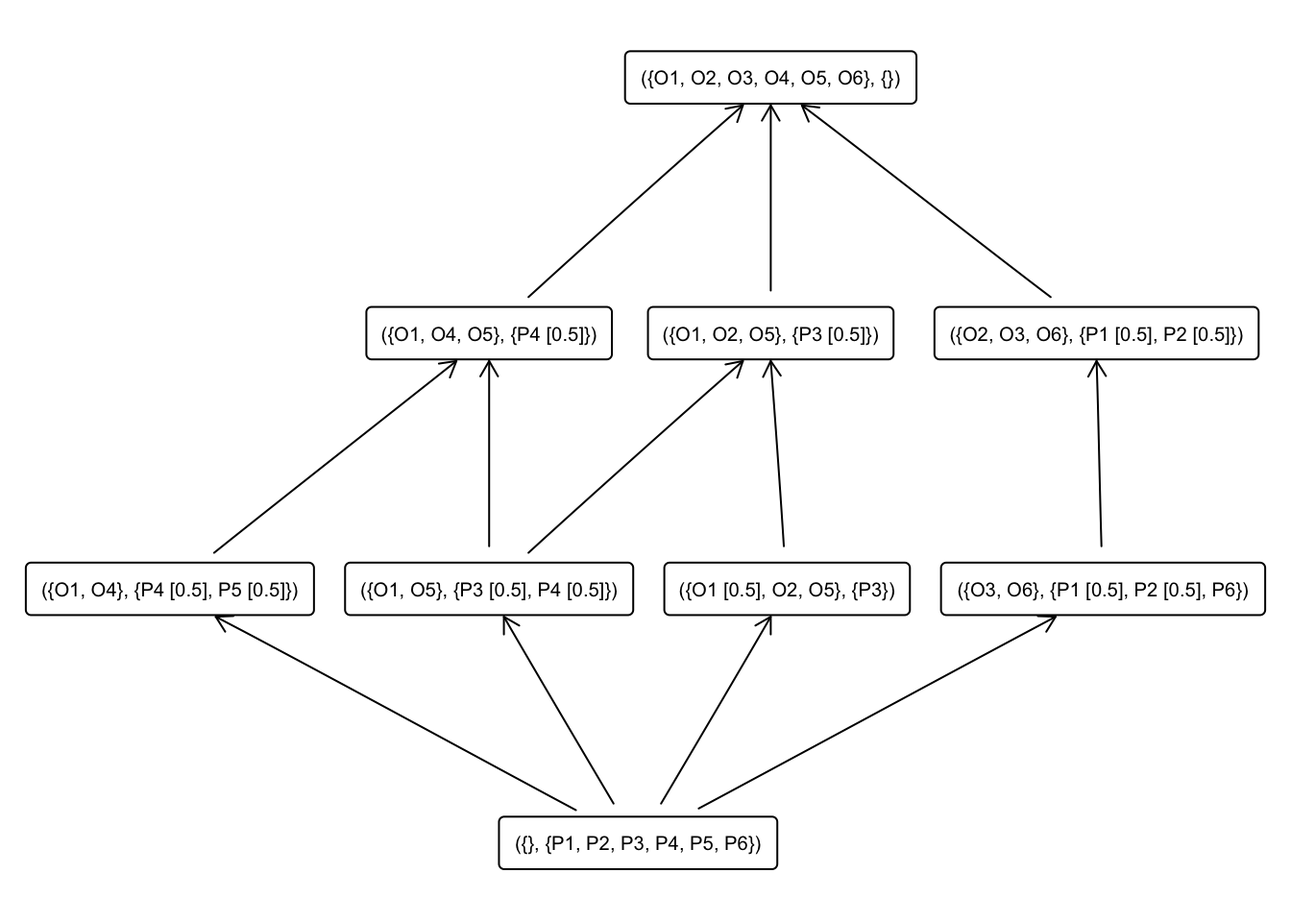
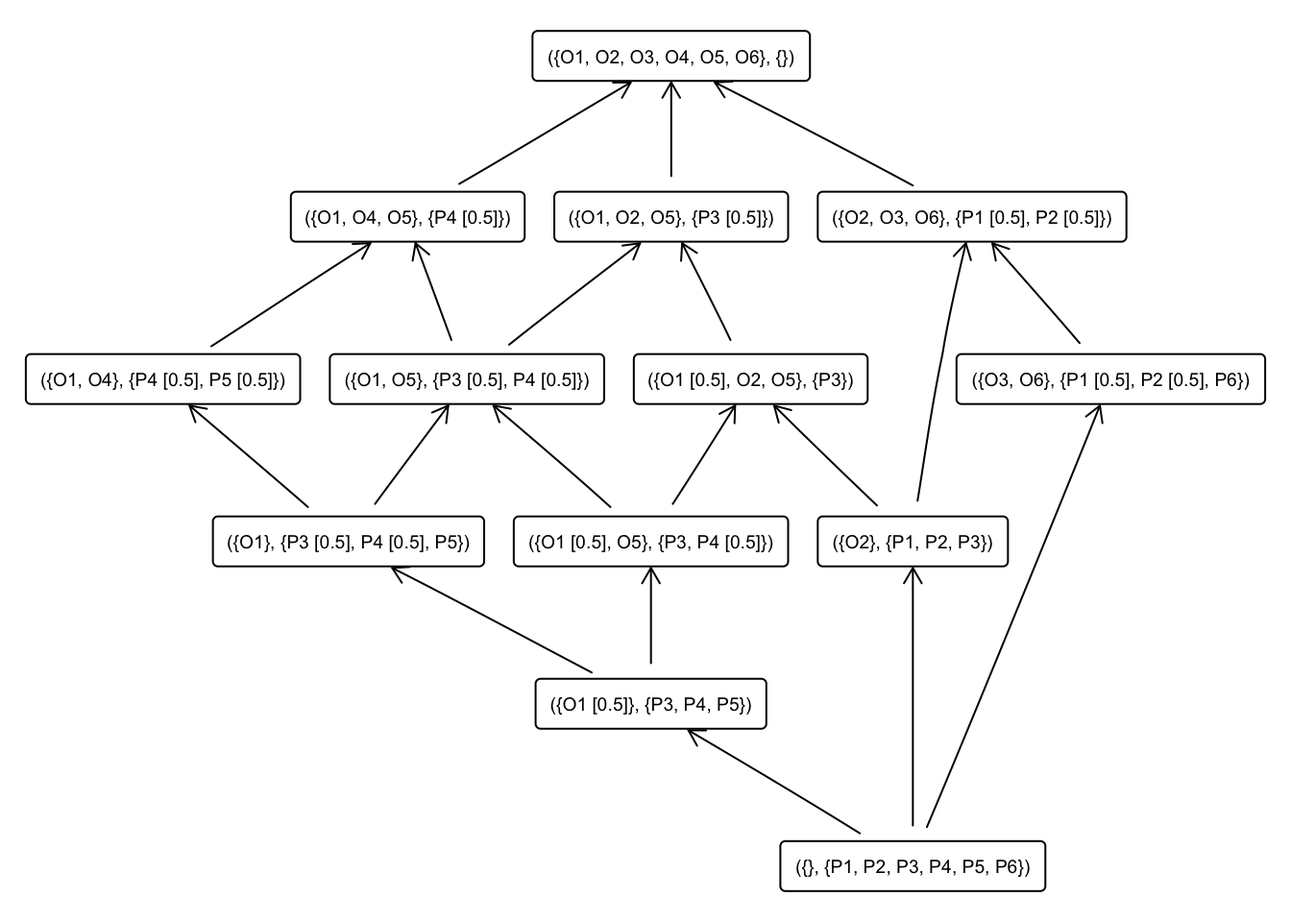
Updated pkgdown site

diff --git a/docs/articles/concept_lattice.html b/docs/articles/concept_lattice.html
@@ -582,7 +582,7 @@ O6
 <p><img src="concept_lattice_files/figure-html/unnamed-chunk-8-2.png" width="384"></p>
 <p>Also, we can export the formal context as a LaTeX table:</p>
 <div class="sourceCode" id="cb8"><pre class="sourceCode r"><code class="sourceCode r"><a class="sourceLine" id="cb8-1" data-line-number="1">fc_planets<span class="op">$</span><span class="kw">to_latex</span>()</a>
-<a class="sourceLine" id="cb8-2" data-line-number="2"><span class="co">#&gt; </span></a>
+<a class="sourceLine" id="cb8-2" data-line-number="2"><span class="co">#&gt; \begin{table} \centering </span></a>
 <a class="sourceLine" id="cb8-3" data-line-number="3"><span class="co">#&gt; \begin{tabular}{lrrrrrrr}</span></a>
 <a class="sourceLine" id="cb8-4" data-line-number="4"><span class="co">#&gt; \toprule</span></a>
 <a class="sourceLine" id="cb8-5" data-line-number="5"><span class="co">#&gt;   &amp; small &amp; medium &amp; large &amp; near &amp; far &amp; moon &amp; no\_moon\\</span></a>
@@ -597,7 +597,7 @@ O6
 <a class="sourceLine" id="cb8-14" data-line-number="14"><span class="co">#&gt; Neptune &amp; 0 &amp; 1 &amp; 0 &amp; 0 &amp; 1 &amp; 1 &amp; 0\\</span></a>
 <a class="sourceLine" id="cb8-15" data-line-number="15"><span class="co">#&gt; Pluto &amp; 1 &amp; 0 &amp; 0 &amp; 0 &amp; 1 &amp; 1 &amp; 0\\</span></a>
 <a class="sourceLine" id="cb8-16" data-line-number="16"><span class="co">#&gt; \bottomrule</span></a>
-<a class="sourceLine" id="cb8-17" data-line-number="17"><span class="co">#&gt; \end{tabular}</span></a></code></pre></div>
+<a class="sourceLine" id="cb8-17" data-line-number="17"><span class="co">#&gt; \end{tabular} \caption{\label{}} \end{table}</span></a></code></pre></div>
 </div>
 <div id="closures" class="section level2">
 <h2 class="hasAnchor">
@@ -606,7 +606,7 @@ O6
 <p>The intent of a (probably fuzzy) set of objects is the set of their common attributes:</p>
 <div class="sourceCode" id="cb9"><pre class="sourceCode r"><code class="sourceCode r"><a class="sourceLine" id="cb9-1" data-line-number="1"><span class="co"># Define a set of objects</span></a>
 <a class="sourceLine" id="cb9-2" data-line-number="2">S &lt;-<span class="st"> </span>SparseSet<span class="op">$</span><span class="kw">new</span>(<span class="dt">attributes =</span> fc_planets<span class="op">$</span>objects)</a>
-<a class="sourceLine" id="cb9-3" data-line-number="3">S<span class="op">$</span><span class="kw"><a href="https://rdrr.io/r/base/assign.html">assign</a></span>(<span class="dt">attributes =</span> <span class="kw"><a href="https://rdrr.io/r/base/c.html">c</a></span>(<span class="st">"Earth"</span>, <span class="st">"Mars"</span>), <span class="dt">values =</span> <span class="kw"><a href="https://rdrr.io/r/base/c.html">c</a></span>(<span class="dv">1</span>, <span class="dv">1</span>))</a>
+<a class="sourceLine" id="cb9-3" data-line-number="3">S<span class="op">$</span><span class="kw"><a href="https://rdrr.io/r/base/assign.html">assign</a></span>(<span class="dt">Earth =</span> <span class="dv">1</span>, <span class="dt">Mars =</span> <span class="dv">1</span>)</a>
 <a class="sourceLine" id="cb9-4" data-line-number="4">S</a>
 <a class="sourceLine" id="cb9-5" data-line-number="5"><span class="co">#&gt; {Earth, Mars}</span></a>
 <a class="sourceLine" id="cb9-6" data-line-number="6"></a>
@@ -616,7 +616,7 @@ O6
 <p>Analogously, the extent of a set of attributes is the set of objects which possess all the attributes in the given set:</p>
 <div class="sourceCode" id="cb10"><pre class="sourceCode r"><code class="sourceCode r"><a class="sourceLine" id="cb10-1" data-line-number="1"><span class="co"># Define a set of objects</span></a>
 <a class="sourceLine" id="cb10-2" data-line-number="2">S &lt;-<span class="st"> </span>SparseSet<span class="op">$</span><span class="kw">new</span>(<span class="dt">attributes =</span> fc_planets<span class="op">$</span>attributes)</a>
-<a class="sourceLine" id="cb10-3" data-line-number="3">S<span class="op">$</span><span class="kw"><a href="https://rdrr.io/r/base/assign.html">assign</a></span>(<span class="dt">attributes =</span> <span class="kw"><a href="https://rdrr.io/r/base/c.html">c</a></span>(<span class="st">"moon"</span>, <span class="st">"large"</span>), <span class="dt">values =</span> <span class="kw"><a href="https://rdrr.io/r/base/c.html">c</a></span>(<span class="dv">1</span>, <span class="dv">1</span>))</a>
+<a class="sourceLine" id="cb10-3" data-line-number="3">S<span class="op">$</span><span class="kw"><a href="https://rdrr.io/r/base/assign.html">assign</a></span>(<span class="dt">moon =</span> <span class="dv">1</span>, <span class="dt">large =</span> <span class="dv">1</span>)</a>
 <a class="sourceLine" id="cb10-4" data-line-number="4">S</a>
 <a class="sourceLine" id="cb10-5" data-line-number="5"><span class="co">#&gt; {large, moon}</span></a>
 <a class="sourceLine" id="cb10-6" data-line-number="6"></a>
@@ -775,7 +775,7 @@ O6
 <a class="sourceLine" id="cb20-16" data-line-number="16"></a>
 <a class="sourceLine" id="cb20-17" data-line-number="17"><span class="co"># LaTeX</span></a>
 <a class="sourceLine" id="cb20-18" data-line-number="18">fc_planets<span class="op">$</span>concepts<span class="op">$</span><span class="kw">to_latex</span>()</a>
-<a class="sourceLine" id="cb20-19" data-line-number="19"><span class="co">#&gt; $$</span></a>
+<a class="sourceLine" id="cb20-19" data-line-number="19"><span class="co">#&gt; \ensuremath{\{Mercury,\, Venus,\, Earth,\, Mars,\, Jupiter,\, Saturn,\, Uranus,\, Neptune,\, Pluto\}}\ensuremath{\varnothing}\ensuremath{\{Earth,\, Mars,\, Jupiter,\, Saturn,\, Uranus,\, Neptune,\, Pluto\}}\ensuremath{\{moon\}}\ensuremath{\{Jupiter,\, Saturn,\, Uranus,\, Neptune,\, Pluto\}}\ensuremath{\{far,\, moon\}}\ensuremath{\{Jupiter,\, Saturn\}}\ensuremath{\{large,\, far,\, moon\}}\ensuremath{\{Uranus,\, Neptune\}}\ensuremath{\{medium,\, far,\, moon\}}\ensuremath{\{Mercury,\, Venus,\, Earth,\, Mars,\, Pluto\}}\ensuremath{\{small\}}\ensuremath{\{Earth,\, Mars,\, Pluto\}}\ensuremath{\{small,\, moon\}}\ensuremath{\{Pluto\}}\ensuremath{\{small,\, far,\, moon\}}\ensuremath{\{Mercury,\, Venus,\, Earth,\, Mars\}}\ensuremath{\{small,\, near\}}\ensuremath{\{Mercury,\, Venus\}}\ensuremath{\{small,\, near,\, no_moon\}}\ensuremath{\{Earth,\, Mars\}}\ensuremath{\{small,\, near,\, moon\}}\ensuremath{\varnothing}\ensuremath{\{small,\, medium,\, large,\, near,\, far,\, moon,\, no_moon\}}$$</span></a>
 <a class="sourceLine" id="cb20-20" data-line-number="20"><span class="co">#&gt; \begin{array}{lll}</span></a>
 <a class="sourceLine" id="cb20-21" data-line-number="21"><span class="co">#&gt; 1: &amp;\left(\,\ensuremath{\{Mercury,\, Venus,\, Earth,\, Mars,\, Jupiter,\, Saturn,\, Uranus,\, Neptune,\, Pluto\}},\right.&amp;\left.\ensuremath{\varnothing}\,\right)\\</span></a>
 <a class="sourceLine" id="cb20-22" data-line-number="22"><span class="co">#&gt; 2: &amp;\left(\,\ensuremath{\{Earth,\, Mars,\, Jupiter,\, Saturn,\, Uranus,\, Neptune,\, Pluto\}},\right.&amp;\left.\ensuremath{\{moon\}}\,\right)\\</span></a>
@@ -825,16 +825,20 @@ O6
 <a class="sourceLine" id="cb24-4" data-line-number="4"><span class="co"># Build the sublattice</span></a>
 <a class="sourceLine" id="cb24-5" data-line-number="5">sublattice &lt;-<span class="st"> </span>fc_I<span class="op">$</span>concepts<span class="op">$</span><span class="kw">sublattice</span>(idx)</a>
 <a class="sourceLine" id="cb24-6" data-line-number="6">sublattice</a>
-<a class="sourceLine" id="cb24-7" data-line-number="7"><span class="co">#&gt; A set of 9 concepts:</span></a>
+<a class="sourceLine" id="cb24-7" data-line-number="7"><span class="co">#&gt; A set of 13 concepts:</span></a>
 <a class="sourceLine" id="cb24-8" data-line-number="8"><span class="co">#&gt; 1: ({O1, O2, O3, O4, O5, O6}, {})</span></a>
 <a class="sourceLine" id="cb24-9" data-line-number="9"><span class="co">#&gt; 2: ({O1, O4, O5}, {P4 [0.5]})</span></a>
 <a class="sourceLine" id="cb24-10" data-line-number="10"><span class="co">#&gt; 3: ({O1, O4}, {P4 [0.5], P5 [0.5]})</span></a>
 <a class="sourceLine" id="cb24-11" data-line-number="11"><span class="co">#&gt; 4: ({O1, O2, O5}, {P3 [0.5]})</span></a>
 <a class="sourceLine" id="cb24-12" data-line-number="12"><span class="co">#&gt; 5: ({O1, O5}, {P3 [0.5], P4 [0.5]})</span></a>
-<a class="sourceLine" id="cb24-13" data-line-number="13"><span class="co">#&gt; 6: ({O1 [0.5], O2, O5}, {P3})</span></a>
-<a class="sourceLine" id="cb24-14" data-line-number="14"><span class="co">#&gt; 7: ({O2, O3, O6}, {P1 [0.5], P2 [0.5]})</span></a>
-<a class="sourceLine" id="cb24-15" data-line-number="15"><span class="co">#&gt; 8: ({O3, O6}, {P1 [0.5], P2 [0.5], P6})</span></a>
-<a class="sourceLine" id="cb24-16" data-line-number="16"><span class="co">#&gt; 9: ({}, {P1, P2, P3, P4, P5, P6})</span></a></code></pre></div>
+<a class="sourceLine" id="cb24-13" data-line-number="13"><span class="co">#&gt; 6: ({O1}, {P3 [0.5], P4 [0.5], P5})</span></a>
+<a class="sourceLine" id="cb24-14" data-line-number="14"><span class="co">#&gt; 7: ({O1 [0.5], O2, O5}, {P3})</span></a>
+<a class="sourceLine" id="cb24-15" data-line-number="15"><span class="co">#&gt; 8: ({O1 [0.5], O5}, {P3, P4 [0.5]})</span></a>
+<a class="sourceLine" id="cb24-16" data-line-number="16"><span class="co">#&gt; 9: ({O1 [0.5]}, {P3, P4, P5})</span></a>
+<a class="sourceLine" id="cb24-17" data-line-number="17"><span class="co">#&gt; 10: ({O2, O3, O6}, {P1 [0.5], P2 [0.5]})</span></a>
+<a class="sourceLine" id="cb24-18" data-line-number="18"><span class="co">#&gt; 11: ({O3, O6}, {P1 [0.5], P2 [0.5], P6})</span></a>
+<a class="sourceLine" id="cb24-19" data-line-number="19"><span class="co">#&gt; 12: ({O2}, {P1, P2, P3})</span></a>
+<a class="sourceLine" id="cb24-20" data-line-number="20"><span class="co">#&gt; 13: ({}, {P1, P2, P3, P4, P5, P6})</span></a></code></pre></div>
 <p>And we can plot just the sublattice:</p>
 <div class="sourceCode" id="cb25"><pre class="sourceCode r"><code class="sourceCode r"><a class="sourceLine" id="cb25-1" data-line-number="1">sublattice<span class="op">$</span><span class="kw"><a href="https://rdrr.io/r/graphics/plot.html">plot</a></span>()</a></code></pre></div>
 <p><img src="concept_lattice_files/figure-html/unnamed-chunk-25-1.png" width="672"></p>

diff --git a/docs/articles/mushroom.html b/docs/articles/mushroom.html
@@ -137,15 +137,15 @@
 <a class="sourceLine" id="cb2-24" data-line-number="24"><span class="co">#&gt; Absolute minimum support count: 812 </span></a>
 <a class="sourceLine" id="cb2-25" data-line-number="25"><span class="co">#&gt; </span></a>
 <a class="sourceLine" id="cb2-26" data-line-number="26"><span class="co">#&gt; set item appearances ...[0 item(s)] done [0.00s].</span></a>
-<a class="sourceLine" id="cb2-27" data-line-number="27"><span class="co">#&gt; set transactions ...[114 item(s), 8124 transaction(s)] done [0.02s].</span></a>
+<a class="sourceLine" id="cb2-27" data-line-number="27"><span class="co">#&gt; set transactions ...[114 item(s), 8124 transaction(s)] done [0.01s].</span></a>
 <a class="sourceLine" id="cb2-28" data-line-number="28"><span class="co">#&gt; sorting and recoding items ... [53 item(s)] done [0.00s].</span></a>
 <a class="sourceLine" id="cb2-29" data-line-number="29"><span class="co">#&gt; creating transaction tree ... done [0.01s].</span></a>
 <a class="sourceLine" id="cb2-30" data-line-number="30"><span class="co">#&gt; checking subsets of size 1 2 3 4 5 6 7 8 9 10</span></a>
 <a class="sourceLine" id="cb2-31" data-line-number="31"><span class="co">#&gt; Warning in apriori(Mushroom, parameter = list(conf = 1)): Mining stopped (maxlen</span></a>
 <a class="sourceLine" id="cb2-32" data-line-number="32"><span class="co">#&gt; reached). Only patterns up to a length of 10 returned!</span></a>
-<a class="sourceLine" id="cb2-33" data-line-number="33"><span class="co">#&gt;  done [5.53s].</span></a>
-<a class="sourceLine" id="cb2-34" data-line-number="34"><span class="co">#&gt; writing ... [1799427 rule(s)] done [0.41s].</span></a>
-<a class="sourceLine" id="cb2-35" data-line-number="35"><span class="co">#&gt; creating S4 object  ... done [1.37s].</span></a></code></pre></div>
+<a class="sourceLine" id="cb2-33" data-line-number="33"><span class="co">#&gt;  done [4.16s].</span></a>
+<a class="sourceLine" id="cb2-34" data-line-number="34"><span class="co">#&gt; writing ... [1799427 rule(s)] done [0.36s].</span></a>
+<a class="sourceLine" id="cb2-35" data-line-number="35"><span class="co">#&gt; creating S4 object  ... done [1.20s].</span></a></code></pre></div>
 <p>The number of implications extracted by the algorithm (with this configuration) is <code>length(mush) =</code> 1799427.</p>
 </div>
 <div id="preprocessing" class="section level1">
@@ -156,7 +156,7 @@
 <a class="sourceLine" id="cb3-2" data-line-number="2">  idx_redundant &lt;-<span class="st"> </span><span class="kw"><a href="https://rdrr.io/pkg/arules/man/is.redundant.html">is.redundant</a></span>(mush)</a>
 <a class="sourceLine" id="cb3-3" data-line-number="3">)</a>
 <a class="sourceLine" id="cb3-4" data-line-number="4"><span class="co">#&gt;    user  system elapsed </span></a>
-<a class="sourceLine" id="cb3-5" data-line-number="5"><span class="co">#&gt;  12.603   1.133  15.892</span></a>
+<a class="sourceLine" id="cb3-5" data-line-number="5"><span class="co">#&gt;  11.411   0.930  12.492</span></a>
 <a class="sourceLine" id="cb3-6" data-line-number="6"></a>
 <a class="sourceLine" id="cb3-7" data-line-number="7">mush_clean &lt;-<span class="st"> </span>mush[<span class="op">!</span>idx_redundant]</a></code></pre></div>
 <p>After this, the number of implications is <code>length(mush_clean) =</code> 2002, that is, just a 0.111 percent of the original ruleset.</p>
@@ -196,8 +196,8 @@
 <a class="sourceLine" id="cb6-2" data-line-number="2">fc<span class="op">$</span>implications<span class="op">$</span><span class="kw">apply_rules</span>(<span class="dt">rules =</span> <span class="kw"><a href="https://rdrr.io/pkg/arules/man/combine.html">c</a></span>(<span class="st">"composition"</span>),</a>
 <a class="sourceLine" id="cb6-3" data-line-number="3">                            <span class="dt">parallelize =</span> <span class="ot">FALSE</span>)</a>
 <a class="sourceLine" id="cb6-4" data-line-number="4"><span class="co">#&gt; Processing batch</span></a>
-<a class="sourceLine" id="cb6-5" data-line-number="5"><span class="co">#&gt; --&gt; composition : from 2002 to 961 in 0.861 secs. </span></a>
-<a class="sourceLine" id="cb6-6" data-line-number="6"><span class="co">#&gt; Batch took 0.863 secs.</span></a>
+<a class="sourceLine" id="cb6-5" data-line-number="5"><span class="co">#&gt; --&gt; composition : from 2002 to 961 in 0.966 secs. </span></a>
+<a class="sourceLine" id="cb6-6" data-line-number="6"><span class="co">#&gt; Batch took 0.968 secs.</span></a>
 <a class="sourceLine" id="cb6-7" data-line-number="7"></a>
 <a class="sourceLine" id="cb6-8" data-line-number="8">fc<span class="op">$</span>implications<span class="op">$</span><span class="kw">cardinality</span>()</a>
 <a class="sourceLine" id="cb6-9" data-line-number="9"><span class="co">#&gt; [1] 961</span></a>
@@ -210,8 +210,8 @@
 <a class="sourceLine" id="cb6-16" data-line-number="16">fc<span class="op">$</span>implications<span class="op">$</span><span class="kw">apply_rules</span>(<span class="dt">rules =</span> <span class="kw"><a href="https://rdrr.io/pkg/arules/man/combine.html">c</a></span>(<span class="st">"simplification"</span>),</a>
 <a class="sourceLine" id="cb6-17" data-line-number="17">                            <span class="dt">parallelize =</span> <span class="ot">FALSE</span>)</a>
 <a class="sourceLine" id="cb6-18" data-line-number="18"><span class="co">#&gt; Processing batch</span></a>
-<a class="sourceLine" id="cb6-19" data-line-number="19"><span class="co">#&gt; --&gt; simplification : from 961 to 961 in 10.37 secs. </span></a>
-<a class="sourceLine" id="cb6-20" data-line-number="20"><span class="co">#&gt; Batch took 10.371 secs.</span></a>
+<a class="sourceLine" id="cb6-19" data-line-number="19"><span class="co">#&gt; --&gt; simplification : from 961 to 961 in 9.703 secs. </span></a>
+<a class="sourceLine" id="cb6-20" data-line-number="20"><span class="co">#&gt; Batch took 9.705 secs.</span></a>
 <a class="sourceLine" id="cb6-21" data-line-number="21"></a>
 <a class="sourceLine" id="cb6-22" data-line-number="22">fc<span class="op">$</span>implications<span class="op">$</span><span class="kw">cardinality</span>()</a>
 <a class="sourceLine" id="cb6-23" data-line-number="23"><span class="co">#&gt; [1] 961</span></a>
@@ -228,9 +228,9 @@
 <a class="sourceLine" id="cb6-34" data-line-number="34">                            <span class="dt">parallelize =</span> <span class="ot">FALSE</span>)</a>
 <a class="sourceLine" id="cb6-35" data-line-number="35"><span class="co">#&gt; Processing batch</span></a>
 <a class="sourceLine" id="cb6-36" data-line-number="36"><span class="co">#&gt; --&gt; composition : from 961 to 961 in 0.005 secs. </span></a>
-<a class="sourceLine" id="cb6-37" data-line-number="37"><span class="co">#&gt; --&gt; generalization : from 961 to 961 in 0.038 secs. </span></a>
-<a class="sourceLine" id="cb6-38" data-line-number="38"><span class="co">#&gt; --&gt; simplification : from 961 to 961 in 10.335 secs. </span></a>
-<a class="sourceLine" id="cb6-39" data-line-number="39"><span class="co">#&gt; Batch took 10.379 secs.</span></a></code></pre></div>
+<a class="sourceLine" id="cb6-37" data-line-number="37"><span class="co">#&gt; --&gt; generalization : from 961 to 961 in 0.039 secs. </span></a>
+<a class="sourceLine" id="cb6-38" data-line-number="38"><span class="co">#&gt; --&gt; simplification : from 961 to 961 in 9.725 secs. </span></a>
+<a class="sourceLine" id="cb6-39" data-line-number="39"><span class="co">#&gt; Batch took 9.77 secs.</span></a></code></pre></div>
 <p>Also, we can compute the support of each implication:</p>
 <div class="sourceCode" id="cb7"><pre class="sourceCode r"><code class="sourceCode r"><a class="sourceLine" id="cb7-1" data-line-number="1">supp &lt;-<span class="st"> </span>fc<span class="op">$</span>implications<span class="op">$</span><span class="kw"><a href="https://rdrr.io/pkg/arules/man/support.html">support</a></span>()</a>
 <a class="sourceLine" id="cb7-2" data-line-number="2"></a>
@@ -243,7 +243,7 @@
 <p>Given a fuzzy set represented by a sparse matrix, we can compute its closure with respect to the implications in the ruleset.</p>
 <div class="sourceCode" id="cb8"><pre class="sourceCode r"><code class="sourceCode r"><a class="sourceLine" id="cb8-1" data-line-number="1"><span class="co"># A fuzzy set</span></a>
 <a class="sourceLine" id="cb8-2" data-line-number="2">A &lt;-<span class="st"> </span>SparseSet<span class="op">$</span><span class="kw">new</span>(<span class="dt">attributes =</span> fc<span class="op">$</span>attributes)</a>
-<a class="sourceLine" id="cb8-3" data-line-number="3">A<span class="op">$</span><span class="kw"><a href="https://rdrr.io/r/base/assign.html">assign</a></span>(<span class="dt">attributes =</span> <span class="st">"CapColor=white"</span>, <span class="dt">values =</span> <span class="dv">1</span>)</a>
+<a class="sourceLine" id="cb8-3" data-line-number="3">A<span class="op">$</span><span class="kw"><a href="https://rdrr.io/r/base/assign.html">assign</a></span>(<span class="st">"CapColor=white"</span> =<span class="st"> </span><span class="dv">1</span>)</a>
 <a class="sourceLine" id="cb8-4" data-line-number="4"></a>
 <a class="sourceLine" id="cb8-5" data-line-number="5"><span class="co"># Compute the closure</span></a>
 <a class="sourceLine" id="cb8-6" data-line-number="6">fc<span class="op">$</span>implications<span class="op">$</span><span class="kw"><a href="https://rdrr.io/r/base/function.html">closure</a></span>(A)</a>

diff --git a/docs/articles/fuzzy_crisp.html b/docs/articles/fuzzy_crisp.html
@@ -180,10 +180,10 @@
 <a class="sourceLine" id="cb7-3" data-line-number="3">                                      <span class="st">"simplification"</span>),</a>
 <a class="sourceLine" id="cb7-4" data-line-number="4">                            <span class="dt">parallelize =</span> <span class="ot">FALSE</span>)</a>
 <a class="sourceLine" id="cb7-5" data-line-number="5"><span class="co">#&gt; Processing batch</span></a>
-<a class="sourceLine" id="cb7-6" data-line-number="6"><span class="co">#&gt; --&gt; composition : from 7 to 7 in 0.013 secs. </span></a>
-<a class="sourceLine" id="cb7-7" data-line-number="7"><span class="co">#&gt; --&gt; generalization : from 7 to 7 in 0.012 secs. </span></a>
-<a class="sourceLine" id="cb7-8" data-line-number="8"><span class="co">#&gt; --&gt; simplification : from 7 to 7 in 0.058 secs. </span></a>
-<a class="sourceLine" id="cb7-9" data-line-number="9"><span class="co">#&gt; Batch took 0.089 secs.</span></a>
+<a class="sourceLine" id="cb7-6" data-line-number="6"><span class="co">#&gt; --&gt; composition : from 7 to 7 in 0.015 secs. </span></a>
+<a class="sourceLine" id="cb7-7" data-line-number="7"><span class="co">#&gt; --&gt; generalization : from 7 to 7 in 0.021 secs. </span></a>
+<a class="sourceLine" id="cb7-8" data-line-number="8"><span class="co">#&gt; --&gt; simplification : from 7 to 7 in 0.057 secs. </span></a>
+<a class="sourceLine" id="cb7-9" data-line-number="9"><span class="co">#&gt; Batch took 0.097 secs.</span></a>
 <a class="sourceLine" id="cb7-10" data-line-number="10"></a>
 <a class="sourceLine" id="cb7-11" data-line-number="11"><span class="co"># Compute cardinality and size in the transformed ruleset:</span></a>
 <a class="sourceLine" id="cb7-12" data-line-number="12">fc<span class="op">$</span>implications<span class="op">$</span><span class="kw">cardinality</span>()</a>
@@ -276,8 +276,8 @@
 <a class="sourceLine" id="cb14-2" data-line-number="2">                            <span class="dt">reorder =</span> <span class="ot">FALSE</span>,</a>
 <a class="sourceLine" id="cb14-3" data-line-number="3">                            <span class="dt">parallelize =</span> <span class="ot">FALSE</span>)</a>
 <a class="sourceLine" id="cb14-4" data-line-number="4"><span class="co">#&gt; Processing batch</span></a>
-<a class="sourceLine" id="cb14-5" data-line-number="5"><span class="co">#&gt; --&gt; composition : from 12 to 12 in 0.002 secs. </span></a>
-<a class="sourceLine" id="cb14-6" data-line-number="6"><span class="co">#&gt; Batch took 0.003 secs.</span></a>
+<a class="sourceLine" id="cb14-5" data-line-number="5"><span class="co">#&gt; --&gt; composition : from 12 to 12 in 0.001 secs. </span></a>
+<a class="sourceLine" id="cb14-6" data-line-number="6"><span class="co">#&gt; Batch took 0.002 secs.</span></a>
 <a class="sourceLine" id="cb14-7" data-line-number="7">fc<span class="op">$</span>implications<span class="op">$</span><span class="kw">cardinality</span>()</a>
 <a class="sourceLine" id="cb14-8" data-line-number="8"><span class="co">#&gt; [1] 12</span></a>
 <a class="sourceLine" id="cb14-9" data-line-number="9">sizes &lt;-<span class="st"> </span>fc<span class="op">$</span>implications<span class="op">$</span><span class="kw">size</span>()</a>
@@ -332,14 +332,13 @@
 <a href="#closures" class="anchor"></a>Closures</h2>
 <p>Let us show how to compute the closure of a set S with respect to the implication set.</p>
 <div class="sourceCode" id="cb16"><pre class="sourceCode r"><code class="sourceCode r"><a class="sourceLine" id="cb16-1" data-line-number="1">S &lt;-<span class="st"> </span>SparseSet<span class="op">$</span><span class="kw">new</span>(<span class="dt">attributes =</span> fc<span class="op">$</span>attributes)</a>
-<a class="sourceLine" id="cb16-2" data-line-number="2">S<span class="op">$</span><span class="kw"><a href="https://rdrr.io/r/base/assign.html">assign</a></span>(<span class="dt">attributes =</span> <span class="kw"><a href="https://rdrr.io/r/base/c.html">c</a></span>(<span class="st">"P2"</span>, <span class="st">"P3"</span>),</a>
-<a class="sourceLine" id="cb16-3" data-line-number="3">         <span class="dt">values =</span> <span class="kw"><a href="https://rdrr.io/r/base/c.html">c</a></span>(<span class="fl">0.5</span>, <span class="fl">0.5</span>))</a>
-<a class="sourceLine" id="cb16-4" data-line-number="4">S</a>
-<a class="sourceLine" id="cb16-5" data-line-number="5"><span class="co">#&gt; {P2 [0.5], P3 [0.5]}</span></a>
-<a class="sourceLine" id="cb16-6" data-line-number="6"></a>
-<a class="sourceLine" id="cb16-7" data-line-number="7">fc<span class="op">$</span>implications<span class="op">$</span><span class="kw"><a href="https://rdrr.io/r/base/function.html">closure</a></span>(S)</a>
-<a class="sourceLine" id="cb16-8" data-line-number="8"><span class="co">#&gt; $closure</span></a>
-<a class="sourceLine" id="cb16-9" data-line-number="9"><span class="co">#&gt; {P2, P3 [0.5]}</span></a></code></pre></div>
+<a class="sourceLine" id="cb16-2" data-line-number="2">S<span class="op">$</span><span class="kw"><a href="https://rdrr.io/r/base/assign.html">assign</a></span>(<span class="dt">P2 =</span> <span class="fl">0.5</span>, <span class="dt">P3 =</span> <span class="fl">0.5</span>)</a>
+<a class="sourceLine" id="cb16-3" data-line-number="3">S</a>
+<a class="sourceLine" id="cb16-4" data-line-number="4"><span class="co">#&gt; {P2 [0.5], P3 [0.5]}</span></a>
+<a class="sourceLine" id="cb16-5" data-line-number="5"></a>
+<a class="sourceLine" id="cb16-6" data-line-number="6">fc<span class="op">$</span>implications<span class="op">$</span><span class="kw"><a href="https://rdrr.io/r/base/function.html">closure</a></span>(S)</a>
+<a class="sourceLine" id="cb16-7" data-line-number="7"><span class="co">#&gt; $closure</span></a>
+<a class="sourceLine" id="cb16-8" data-line-number="8"><span class="co">#&gt; {P2, P3 [0.5]}</span></a></code></pre></div>
 </div>
 </div>
   </div>

diff --git a/docs/reference/SparseSet.html b/docs/reference/SparseSet.html
@@ -169,7 +169,7 @@
 <p><hr>
 <a id="method-assign"></a></p><h3>Method <code><a href='https://rdrr.io/r/base/assign.html'>assign()</a></code></h3>
 <p>Assign grades to attributes in the set</p><h3>Usage</h3>
-<p><div class="r"></p><pre>SparseSet$assign(attributes, values)</pre><p></div></p>
+<p><div class="r"></p><pre>SparseSet$assign(attributes = c(), values = c(), ...)</pre><p></div></p>
 
 <h3>Arguments</h3>
 <p><div class="arguments"></p><dl class='dl-horizontal'>
@@ -177,7 +177,14 @@
 
 <dt><code>values</code></dt><dd><p>(numeric vector) Grades to be assigned to the previous <code>attributes</code>.</p></dd>
 
+<dt><code>...</code></dt><dd><p><code>key</code> = <code>value</code> pairs, where the value <code>value</code> is assigned to the <code>key</code> attribute name.</p></dd>
+
 </dl><p></div></p>
+<h3>Details</h3>
+<p>One can use both syntaxes:
+<code>S$assign(A = 1, B = 0.3)</code>
+<code>S$assign(attributes = c(A, B), values = c(1, 0.3))</code>.</p>
+
 <p><hr>
 <a id="method-get_vector"></a></p><h3>Method <code>get_vector()</code></h3>
 <p>Internal <code>Matrix</code></p><h3>Usage</h3>

diff --git a/docs/reference/FormalContext.html b/docs/reference/FormalContext.html
@@ -371,10 +371,17 @@
 <p><hr>
 <a id="method-to_latex"></a></p><h3>Method <code>to_latex()</code></h3>
 <p>Write the context in LaTeX format</p><h3>Usage</h3>
-<p><div class="r"></p><pre>FormalContext$to_latex()</pre><p></div></p>
+<p><div class="r"></p><pre>FormalContext$to_latex(label = "", caption = "")</pre><p></div></p>
 
+<h3>Arguments</h3>
+<p><div class="arguments"></p><dl class='dl-horizontal'>
+<dt><code>label</code></dt><dd><p>(character) The label for the table environment.</p></dd>
+
+<dt><code>caption</code></dt><dd><p>(character) The caption of the table.</p></dd>
+
+</dl><p></div></p>
 <h3>Returns</h3>
-<p>A tabular environment in LaTeX.</p>
+<p>A table environment in LaTeX.</p>
 <p><hr>
 <a id="method-plot"></a></p><h3>Method <code><a href='https://rdrr.io/r/graphics/plot.html'>plot()</a></code></h3>
 <p>Plot the formal context table</p><h3>Usage</h3>
